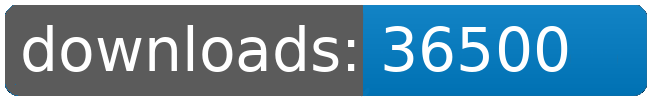
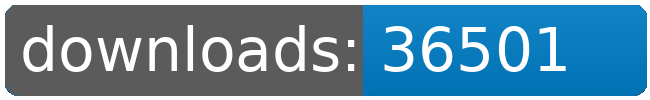
dl log written

Changed region(s): [[0.8, 0.24, 0.8923, 0.72]]

diff --git a/README.md b/README.md
@@ -21,8 +21,8 @@
 		<td>4352</td>
 		<td>4373</td>
 		<td>4388</td>
-		<td>4398</td>
-		<td>+ 10</td>
+		<td>4399</td>
+		<td>+ 11</td>
 	</tr>
 	<tr>
 		<td>Factory.Outlets</td>
@@ -109,8 +109,8 @@
 		<td></td>
 		<td></td>
 		<td></td>
-		<td>36500</td>
-		<td>86</td>
+		<td>36501</td>
+		<td>87</td>
 	</tr>
 </table>
 </sub></sup>
@@ -168,8 +168,8 @@
 		<td>4352</td>
 		<td>4373</td>
 		<td>4388</td>
-		<td>4398</td>
-		<td>+ 10</td>
+		<td>4399</td>
+		<td>+ 11</td>
 	</tr>
 	<tr>
 		<td>Solar.Sails</td>
@@ -223,8 +223,8 @@
 		<td></td>
 		<td></td>
 		<td></td>
-		<td>36500</td>
-		<td>86</td>
+		<td>36501</td>
+		<td>87</td>
 	</tr>
 </table>
 </sub></sup>
